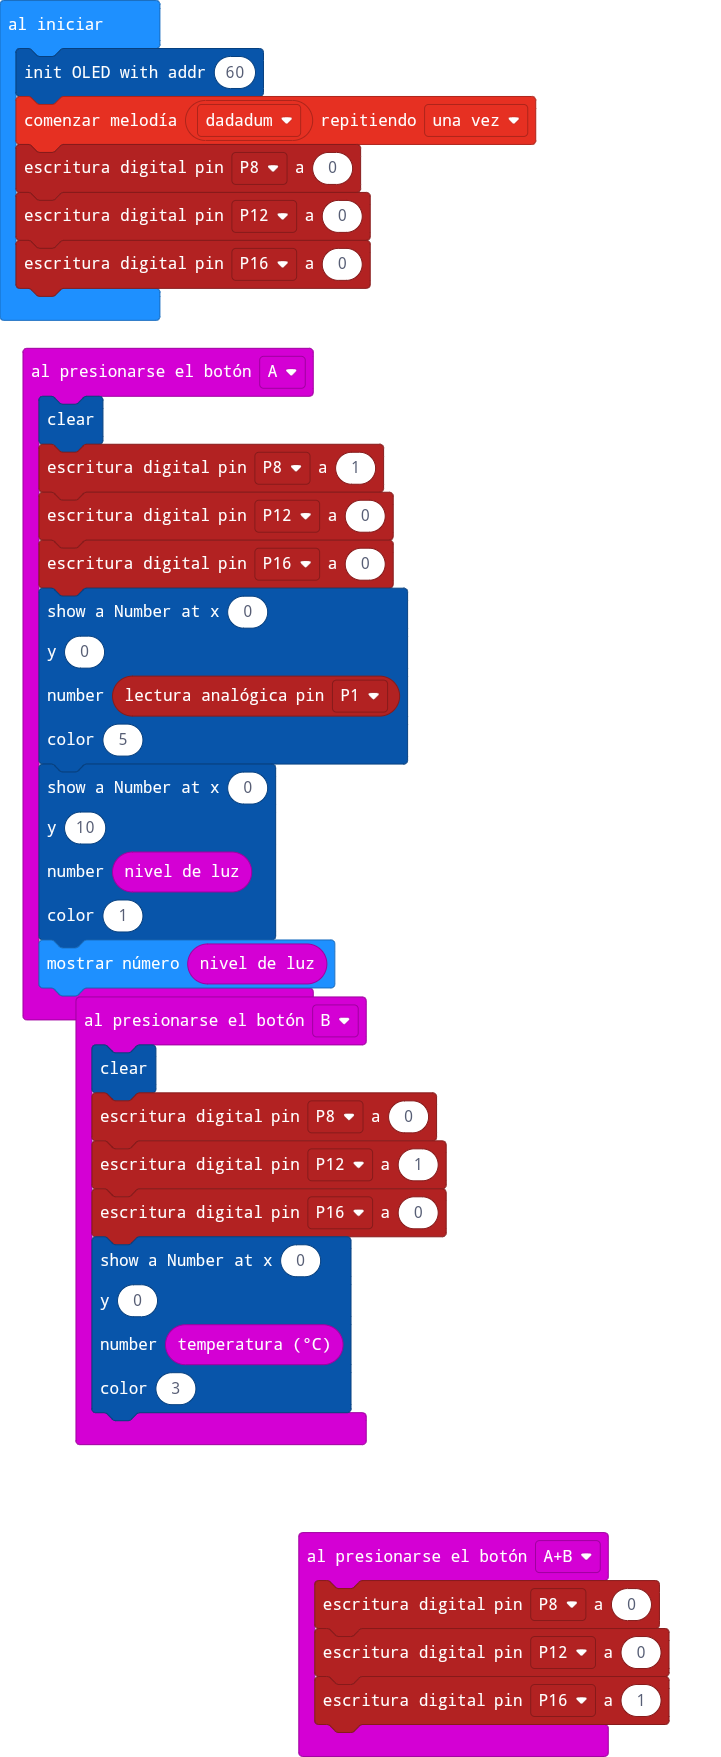
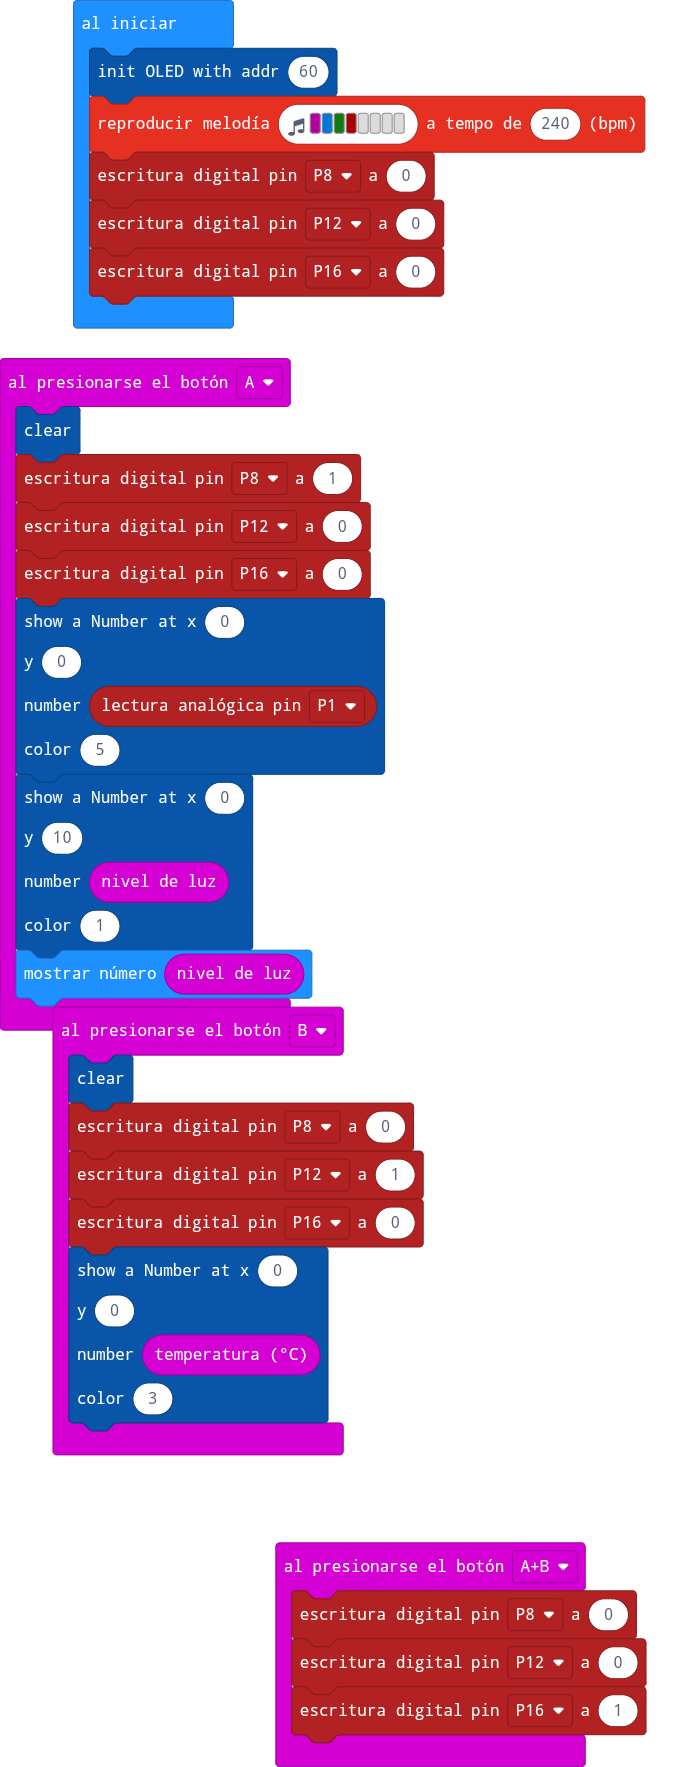
Actualizar pxt.json, main.blocks, main.ts

Changed region(s): [[0.0, 0.0, 0.9327, 0.8298], [0.3911, 0.8606, 0.9327, 1.0]]

diff --git a/main.ts b/main.ts
@@ -35,7 +35,7 @@ input.onButtonPressed(Button.B, function () {
     )
 })
 OLED12864_I2C.init(60)
-music.startMelody(music.builtInMelody(Melodies.Dadadadum), MelodyOptions.Once)
+music.playMelody("C E G C5 - - - - ", 240)
 pins.digitalWritePin(DigitalPin.P8, 0)
 pins.digitalWritePin(DigitalPin.P12, 0)
 pins.digitalWritePin(DigitalPin.P16, 0)
